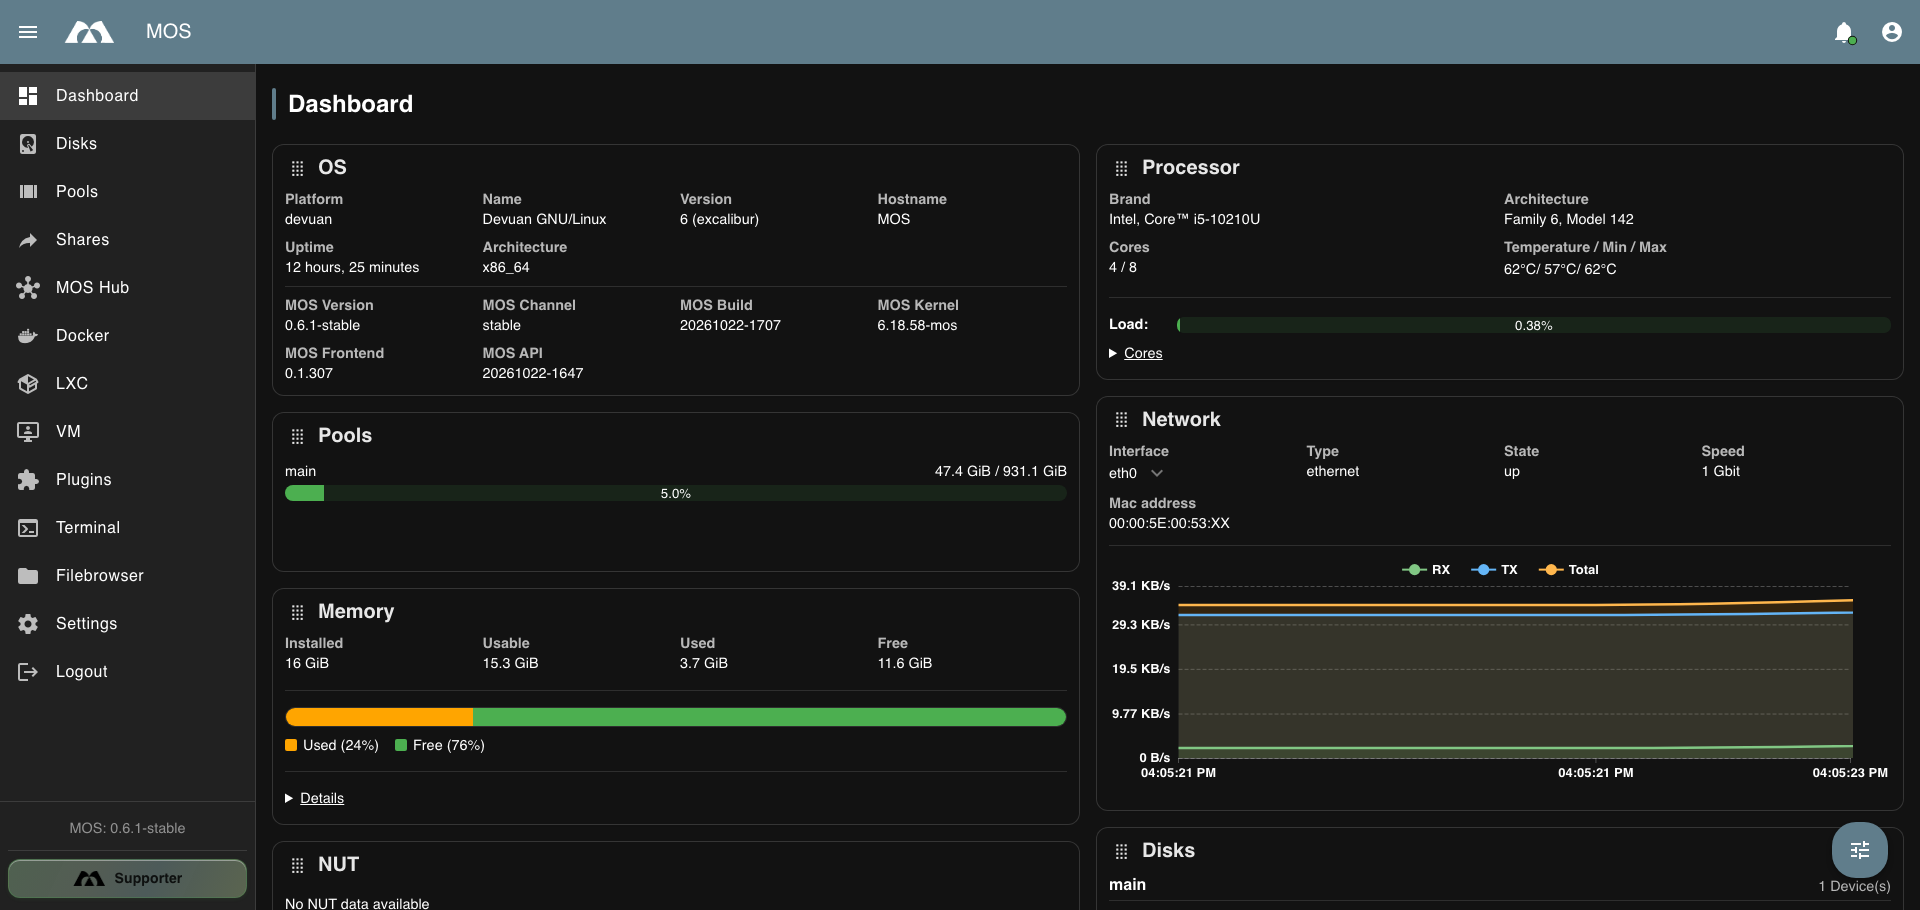
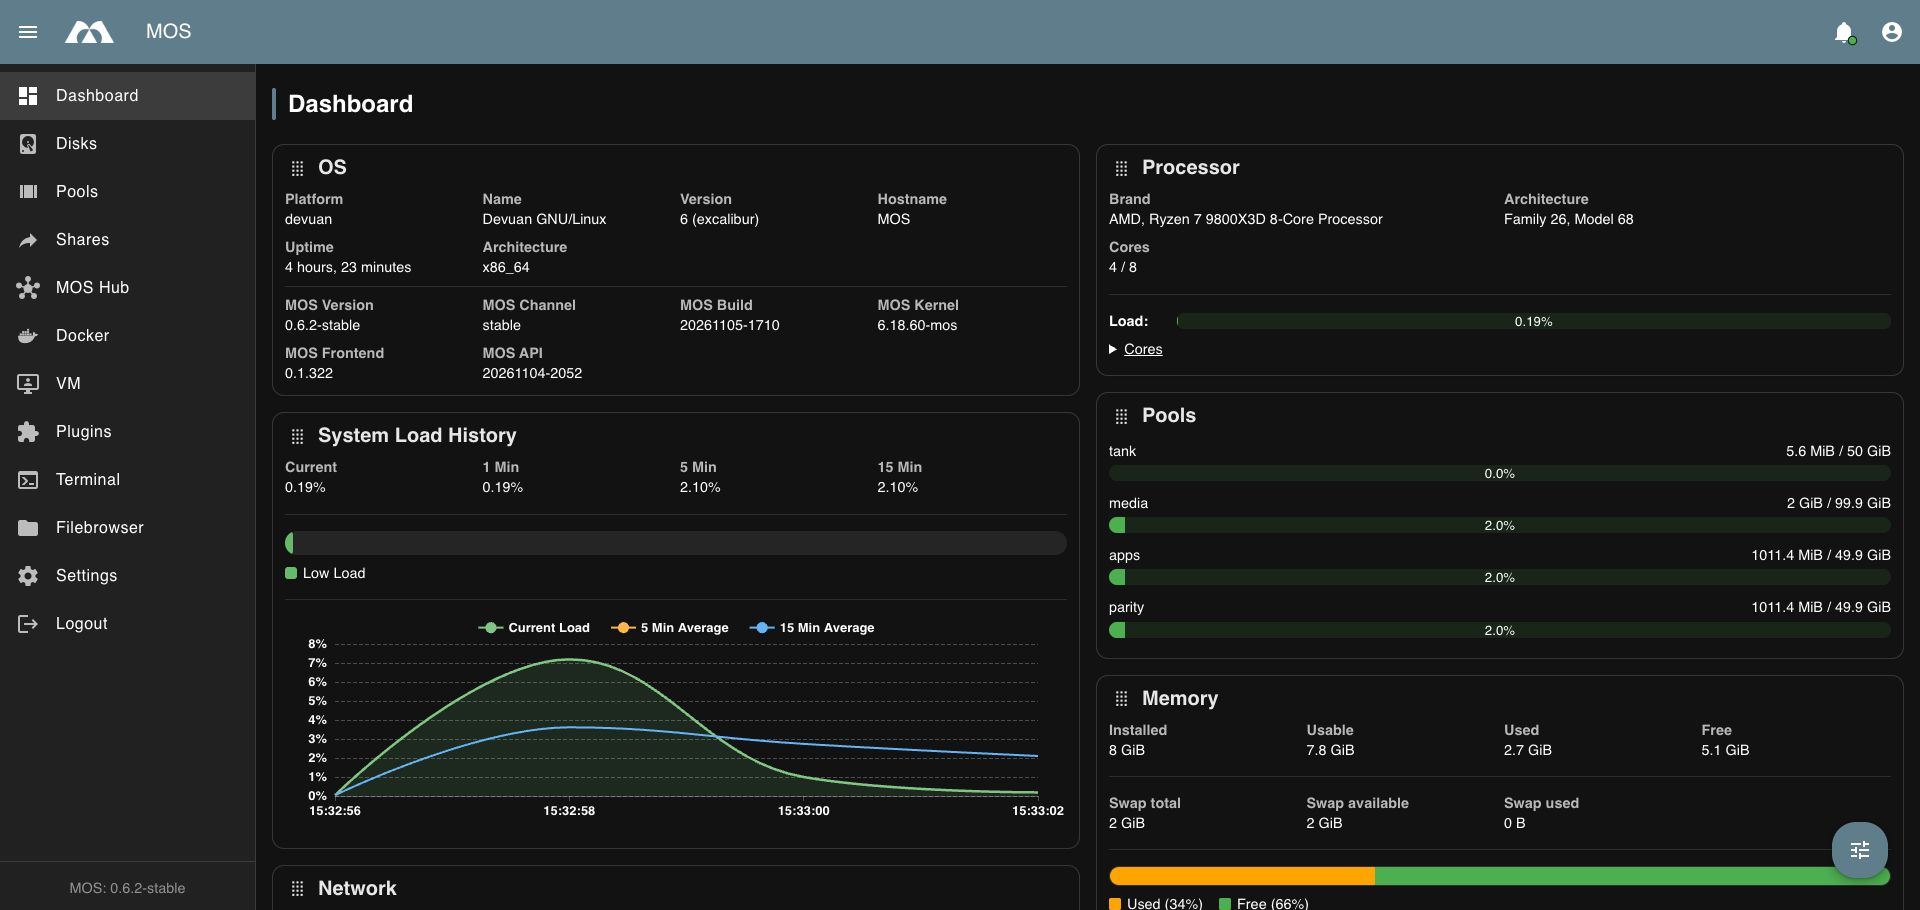
Edit WebUI Overview

diff --git a/docs/Dashboard/WebUI-Overview.md b/docs/Dashboard/WebUI-Overview.md
@@ -116,7 +116,7 @@ Best suited for workloads that require a full OS.
 
 ### 👤 Users
 
-User and permission management. Allows you to:
+User and permission management is available under **Settings → System Configuration → Users**. It allows you to:
 
 - Create and manage user accounts
 - Assign access rights
@@ -124,11 +124,12 @@ User and permission management. Allows you to:
 
 ### 🔧 Tools
 
-Provides tools for MOS:
+The sidebar provides:
 
-- Power Management (Reboot and Shutdown)
-- Terminal
-- Filebrowser
+- **Terminal** — browser-based root shell
+- **Filebrowser** — file system browser
+
+**Reboot** and **Shutdown** are located under **Settings → System**.
 
 ### 👨💻 User Settings
 
@@ -160,6 +161,7 @@ The Dashboard displays multiple information panels providing a real-time system 
 |---|---|
 | **OS Panel** | Displays operating system details, MOS version, kernel, uptime and hostname |
 | **Processor Panel** | Shows CPU model, architecture, temperature, load and per-core utilization |
+| **System Load History** | Current, 1-minute, 5-minute and 15-minute load averages with a history graph |
 | **Memory Panel** | Visual overview of RAM usage, including system processes, Docker, LXC, cache and free memory |
 | **Network Panel** | Displays real-time network traffic for active interfaces |
 | **Pools Panel** | Shows storage pool usage and capacity |
@@ -286,20 +288,6 @@ The notification list only shows events that were delivered to MOS. Which events
 are sent, and to which providers, is configured under
 [Settings → Notifications](/docs/Settings/System-Configuration/Notifications).
 :::
-
----
-
-## ✅ Summary
-
-The MOS WebUI is designed to provide:
-
-- Immediate visibility into system health
-- Clear separation of storage, services and virtualization
-- Scalability from simple setups to advanced server configurations
-
-For most users, daily interaction will focus on:
-
-**Dashboard → Pools → Shares → Docker → Settings**
 
 ---
 
